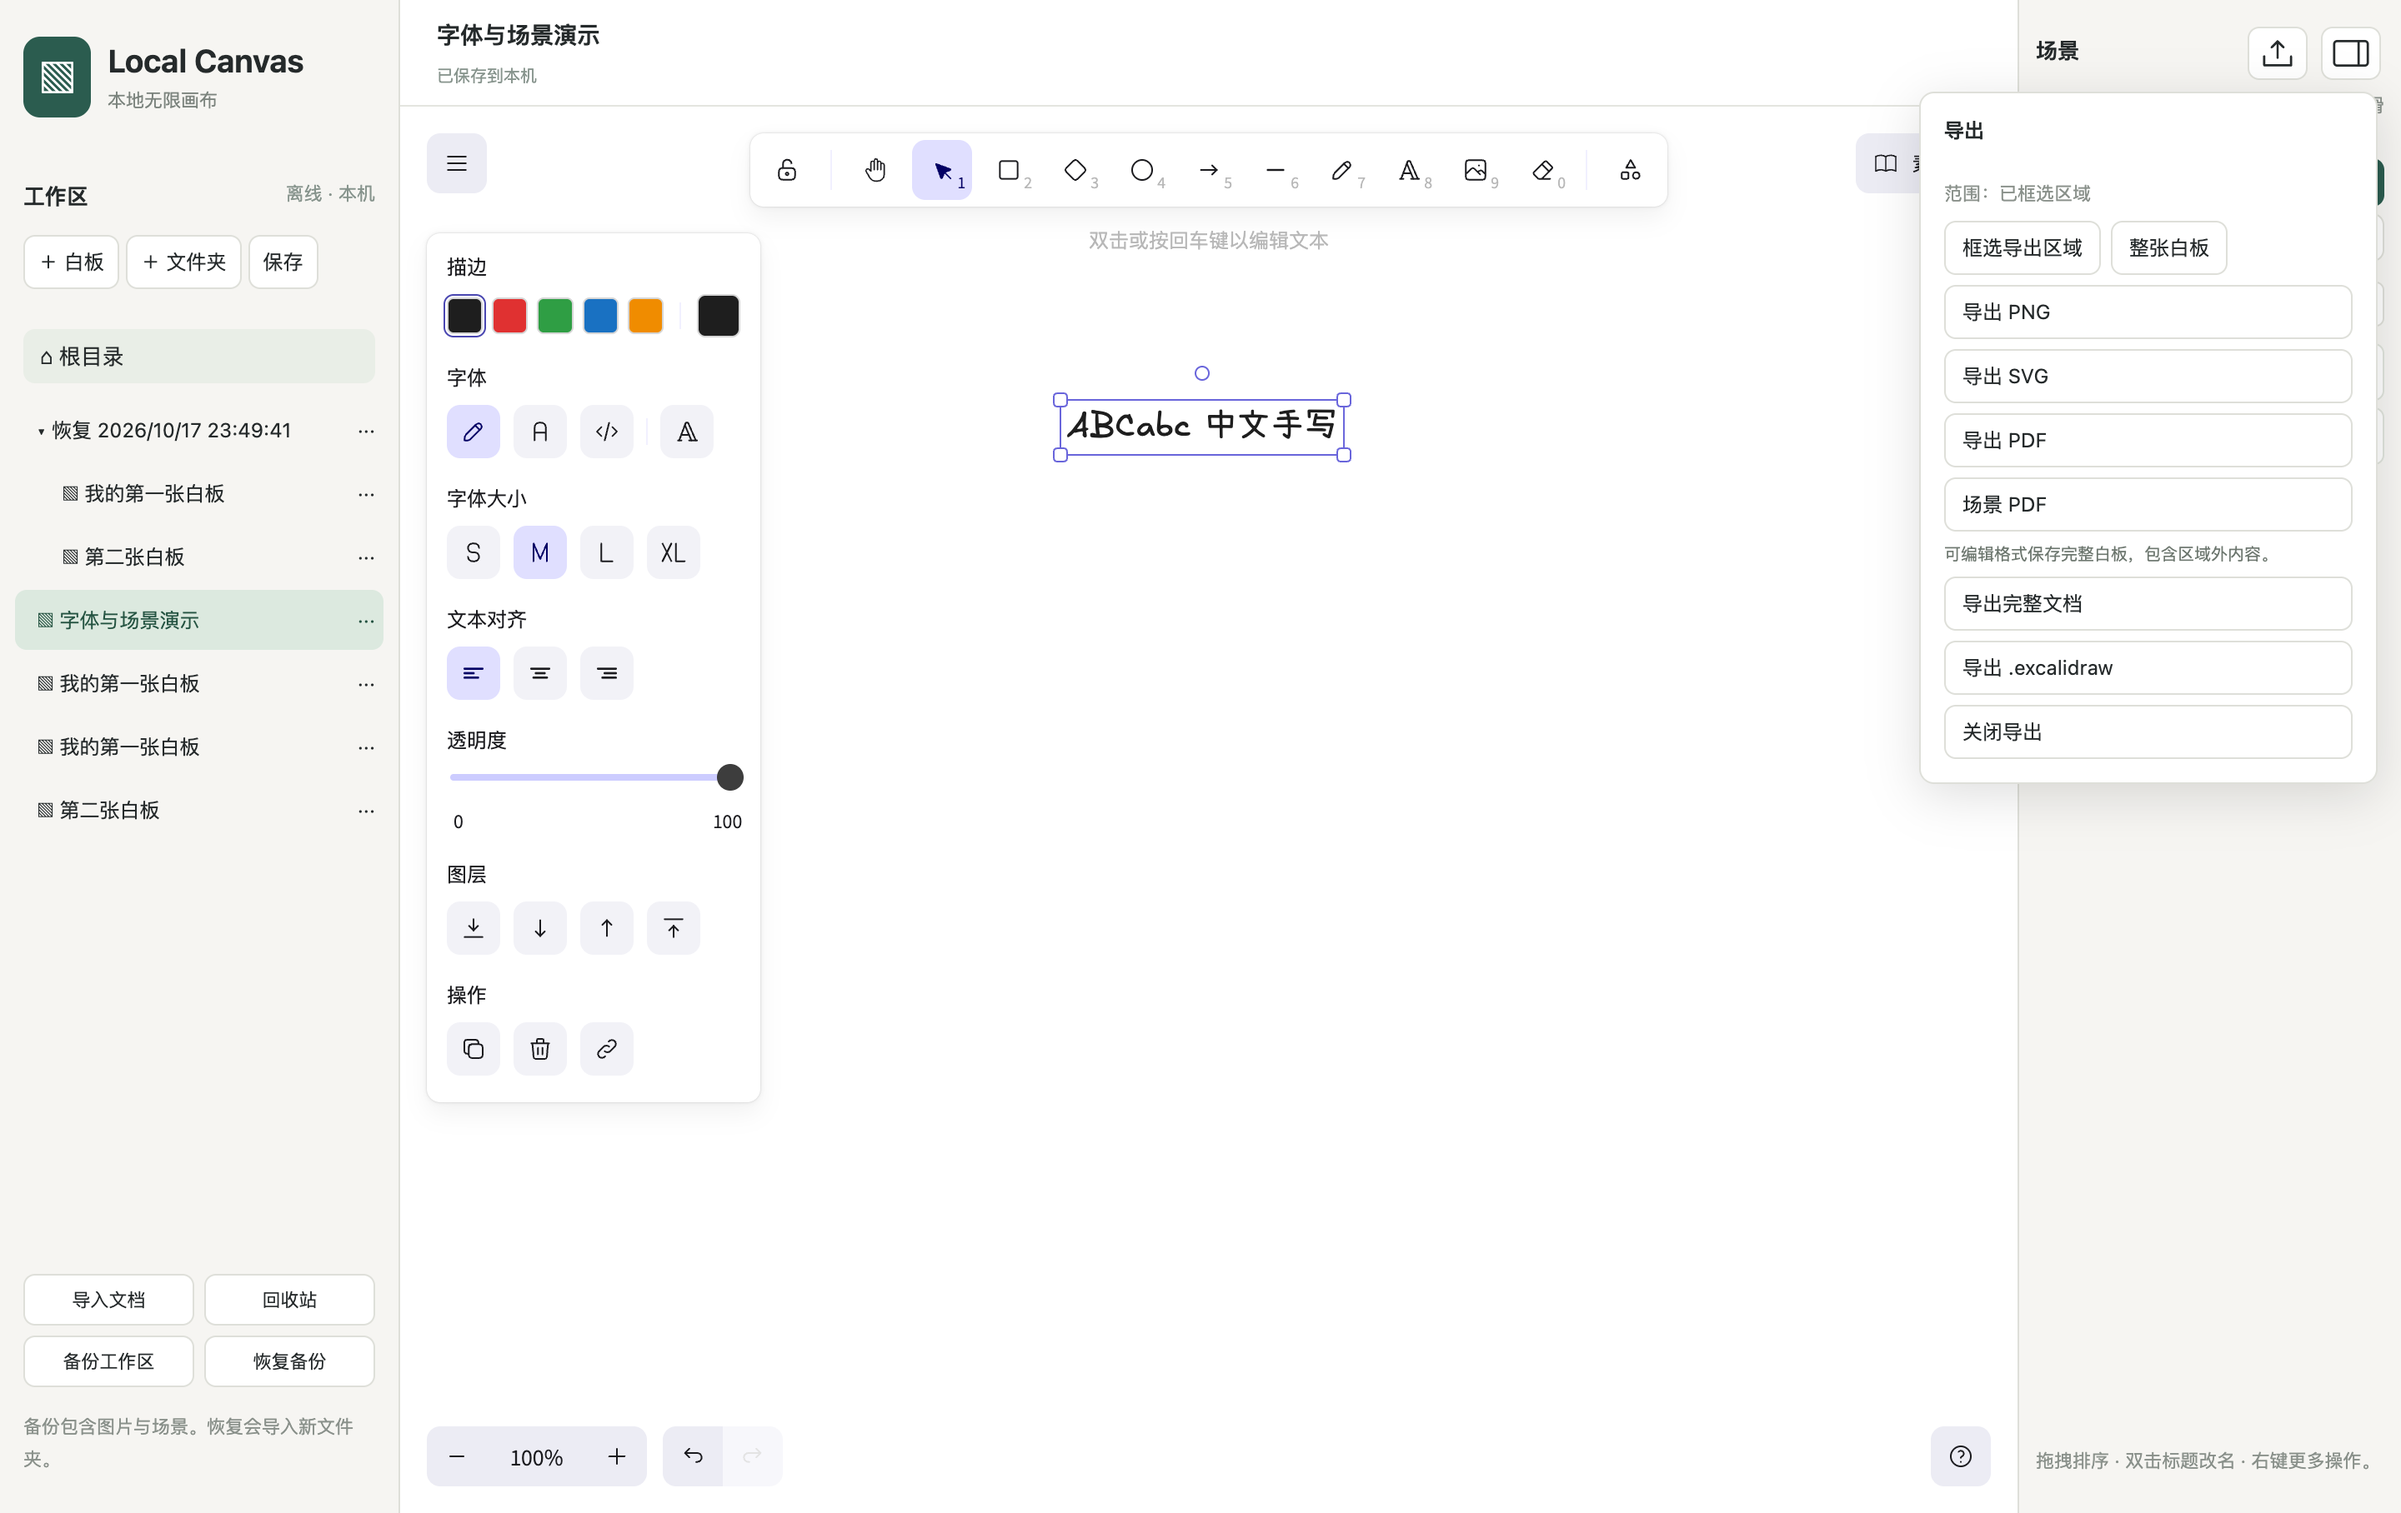
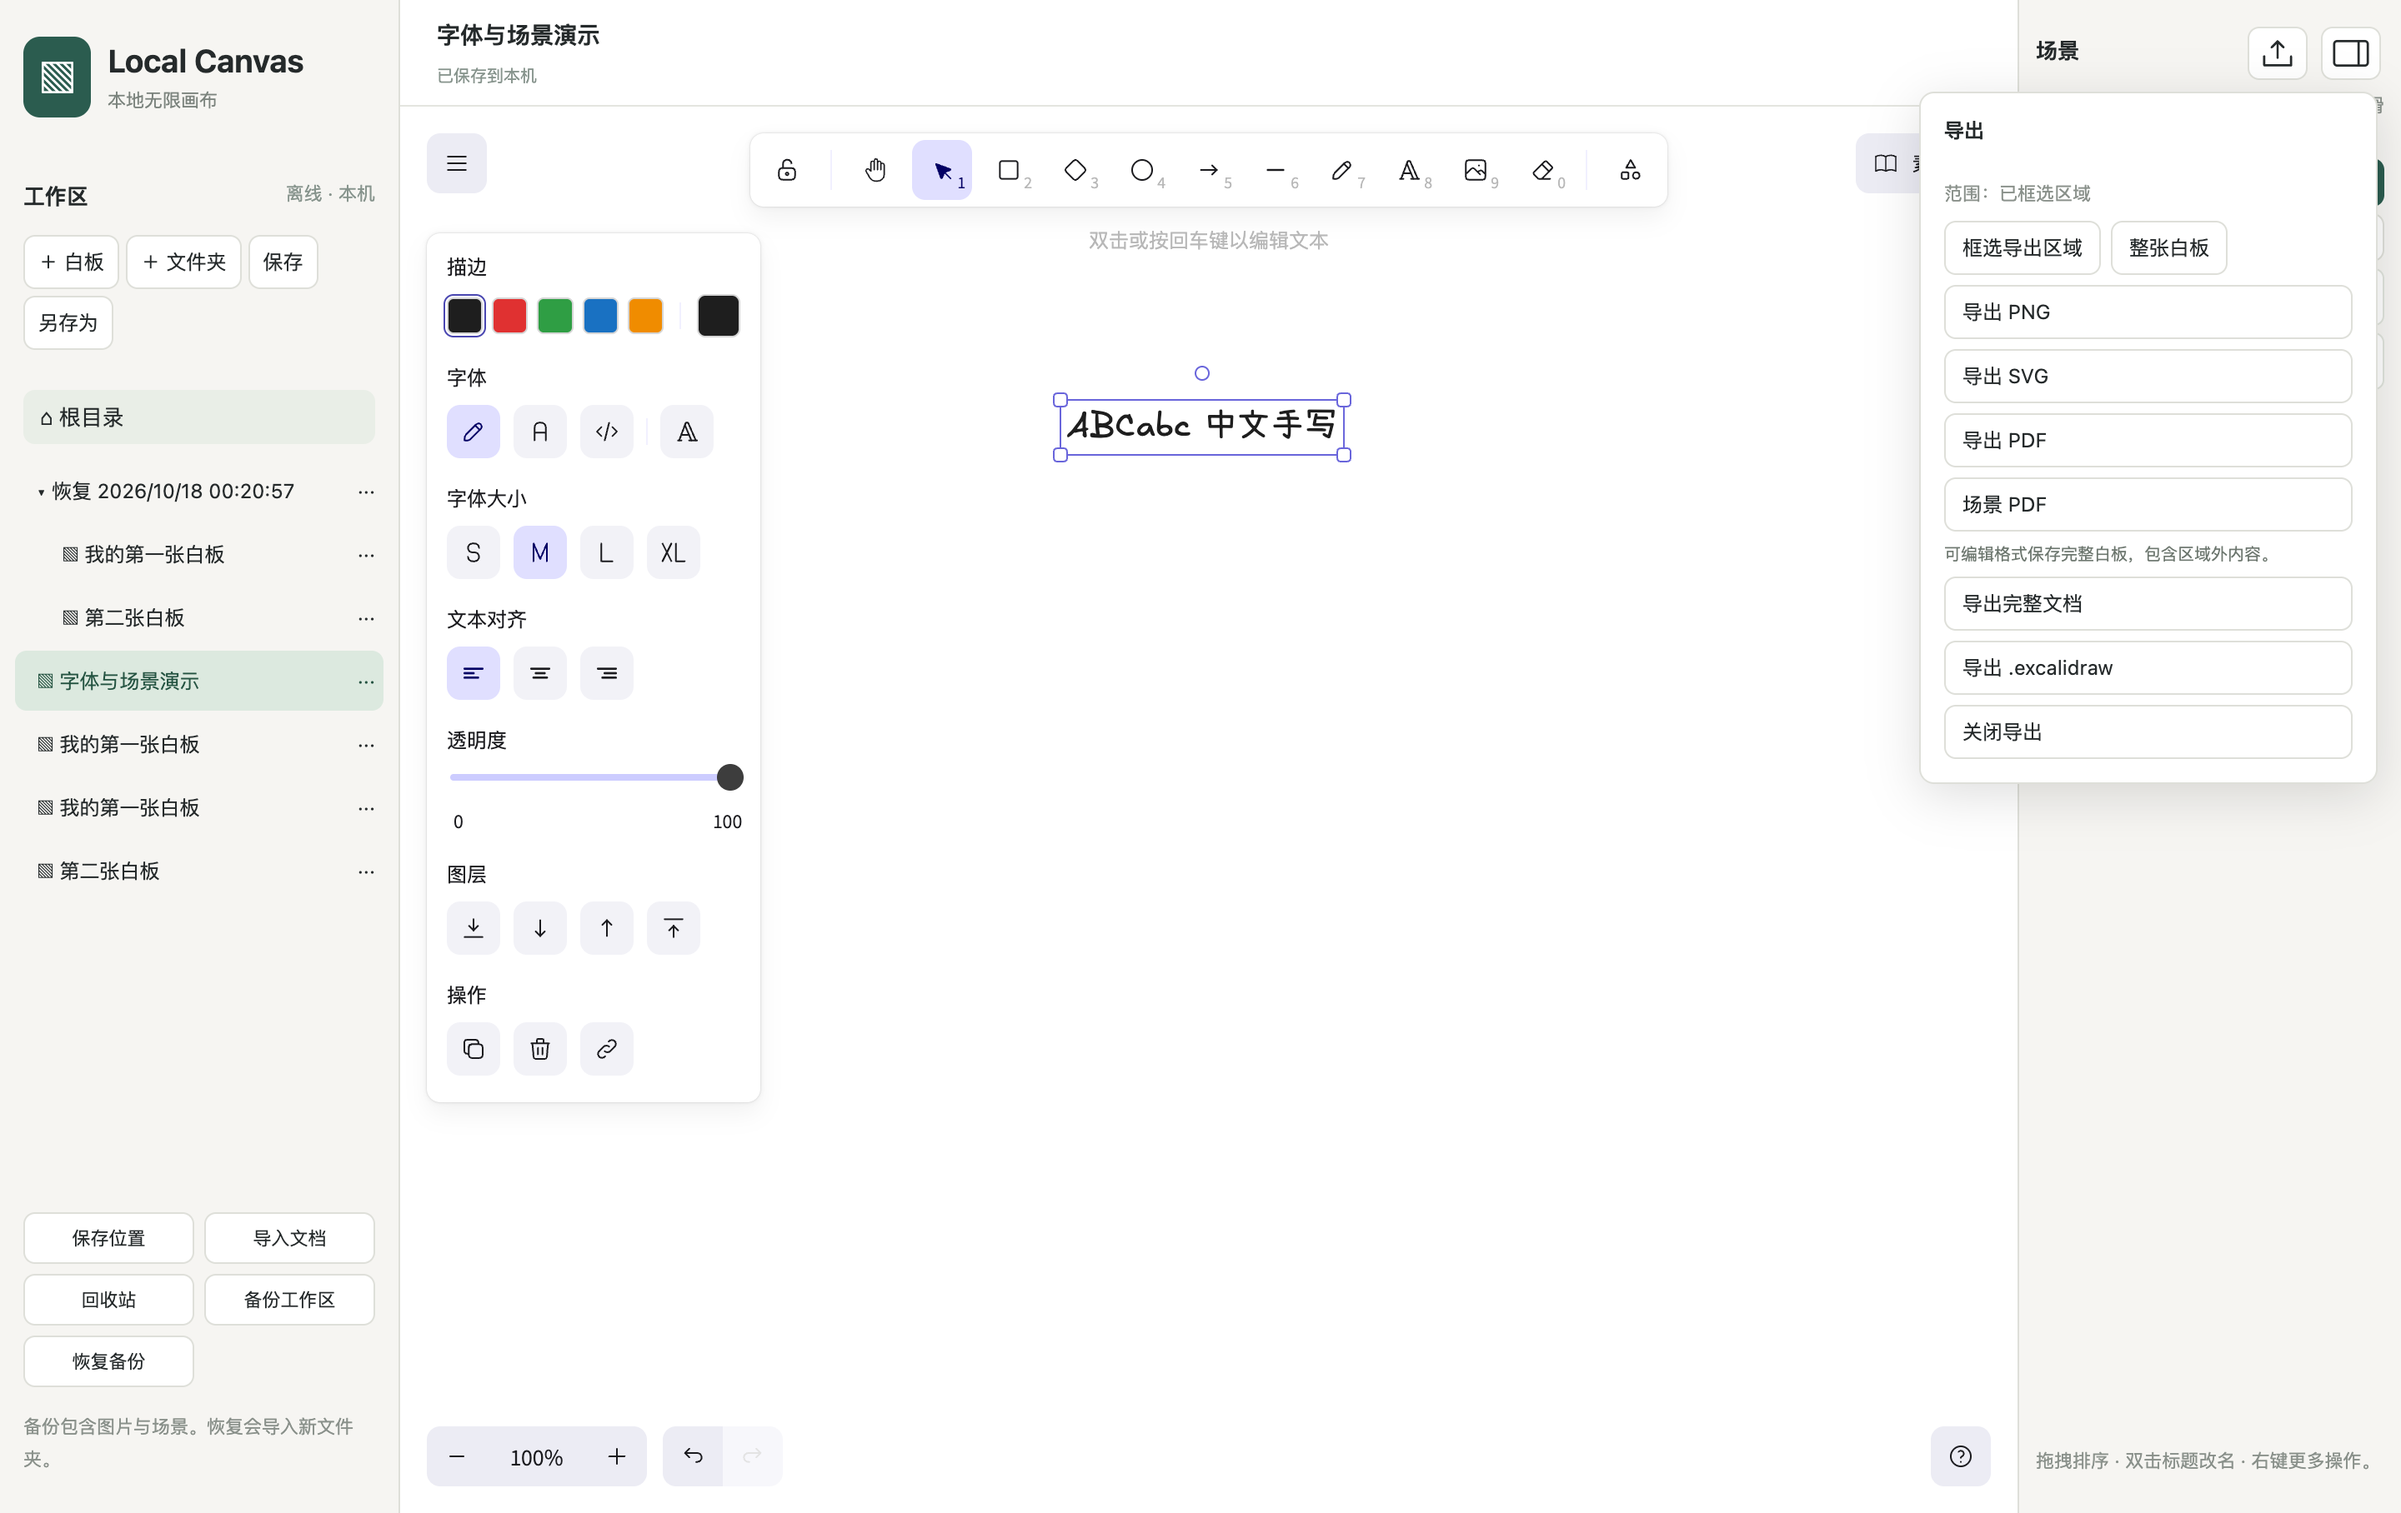
docs: showcase presentation layers, autoplay and save locations

diff --git a/desktop/VALIDATION.md b/desktop/VALIDATION.md
@@ -48,3 +48,11 @@ Presentation uses the official native freedraw engine and native styling panel i
 The unified export menu was tested with full document, Excalidraw, whole-board PDF, scene PDF and a manually selected region. Region PNG dimensions are checked against the selected bounds (540 × 160 px for a 270 × 80 region at 2×); region SVG and PDF files are generated. PNG and rendered PDF were visually checked for complete Chinese/English lettering and correct cropping. Editable formats intentionally preserve the entire document.
 
 Database revisions remain unchanged after interrupted scene animation, completed animation and wheel panning. Cmd/Ctrl+S and the workspace Save button commit the current view. A subsequent pan followed by a real shape color edit autosaves the changed color while retaining the previously manually saved viewport. Existing switching, restart, backup/restore and close-time content flush checks still pass. All 9 storage/navigation unit tests passed. Developer ID notarization and Windows runtime testing remain outstanding.
+
+## 2026-10-18 presentation and storage regression
+
+Expanded real Electron tests repeat clicks on the active whiteboard and press Save before entering fullscreen, reproducing the old API-null trigger. Navigation and presentation remain operational. The editing sidebar has no duration selector; presentation starts at the first scene and exposes exactly 500/1000/1500/2000 ms. Actual autoplay advances to the final scene and stops. The fullscreen Layers panel is exercised with real bidirectional pointer dragging and context-menu inline renaming. Native ink drawing, undo/redo and original-document isolation remain covered after these actions.
+
+Save As produces a full document containing scenes. The actual storage-location panel is checked against the isolated test profile. The test migrates the workspace and backups through the UI, closes the application while editing is locked, relaunches using the profile's storage-location pointer, and verifies the active document's scene/text data and new displayed database path. The original workspace is retained; nonempty destinations are rejected by the implementation. External-drive disconnect/reconnect and Windows runtime validation remain outstanding.
+
+Final result: the signed macOS packaged application passed the complete expanded desktop regression, including actual fullscreen-layer dragging, first-page entry, auto advance/stop, repeated-document-click recovery, native undo/redo, Save As and storage migration across restart. All 9 storage/navigation unit tests also passed. Updated real screenshots are stored under docs/local-canvas/.

diff --git a/README.md b/README.md
@@ -14,8 +14,9 @@
 | 保存与备份 | 内容变更自动保存，平移、缩放和场景导航不触发写入；手动保存（Cmd/Ctrl+S）同时记录当前视图；完整备份包含图片、场景及素材库 |
 | 同一白板内的场景 | 框选区域或保存当前视图，编辑标题、调整区域、拖动排序；点击后平滑移动并缩放，动画可打断 |
 | 紧凑场景侧栏 | 单行标题、拖动排序，右键进入改名/重框等操作；标题原位编辑，双栏图标切换显示 |
-| 导航时长 | 0.5、1.2、2.2、3.5 和 5 秒 |
-| 全屏场景演示 | 按场景顺序播放，底部上一页/下一页及键盘方向键操作，退出后恢复编辑视图 |
+| 导航时长 | 编辑侧栏固定 0.5 秒；演示中的手动翻页与自动播放可选 0.5、1、1.5、2 秒 |
+| 全屏场景演示 | 从排序第一项开始，底部手动翻页或自动演示；图层面板可拖拽排序、右键原位改名，退出恢复编辑视图 |
+| 保存位置与另存为 | 界面显示工作区路径，可完整迁移到其他文件夹并在重启后启用；另存为可单独选择完整白板文件位置 |
 | 演示临时画笔 | 直接使用 Excalidraw 原生自由画笔和样式面板，支持描边、背景、粗细及透明度；翻页或退出清除 |
 | 集中导出 | 右上角统一入口，可框选区域导出 PNG、SVG、PDF；支持整板、场景分页 PDF 及完整可编辑文档 |
 | 字体与素材库 | 沿用画布原生字体面板，支持手写字体及离线中文回退；本地 `.excalidrawlib` 导入、合并及随文档保存 |
@@ -30,6 +31,10 @@
 ![实机全屏演示：底部翻页及临时画笔，左侧为 Excalidraw 原生画笔样式面板](docs/local-canvas/presentation-current.png)
 
 临时画笔允许连续书写多笔，翻页及退出时清除；不写入文档、备份或 PDF。编辑和备份仍使用完整文档或 `.excalidraw` 格式。
+
+![演示图层面板：排序与右键场景操作，底部可选自动演示及移动时长](docs/local-canvas/layers-current.png)
+
+自动演示每页停留 3 秒，到最后一页停止；打开图层面板或启用临时画笔时暂停自动播放。
 
 ## 区域导出
 

diff --git a/desktop/README.md b/desktop/README.md
@@ -38,6 +38,10 @@ npm start
 
 ## Data and recovery
 
+Default macOS folder: `~/Library/Application Support/Local Canvas/`; default Windows folder: `%APPDATA%/Local Canvas/`. The Save Location panel shows the actual database and backup paths, including custom locations. Choose Change Workspace Location to migrate a consistent SQLite snapshot and backup folder to a new `Local Canvas` subfolder. Nonempty targets are rejected, original data is retained, and editing is blocked until restart. The profile's `storage-location.json` points to the migrated folder; a missing external drive causes a visible startup error rather than opening an empty database. Save As writes a portable full document to a chosen file and does not change the workspace database location.
+
+Presentation always begins with the first ordered scene. The Layers button opens the same draggable scene list and context menu during fullscreen. Editing navigation is fixed at 500 ms; presentation controls offer 500/1000/1500/2000 ms for arrows and automatic playback. Automatic playback waits three seconds after each transition and stops at the last scene; opening Layers or the pen pauses it.
+
 Database: Electron `app.getPath('userData')/workspace.sqlite`; daily startup snapshots: `userData/backups/`. Development and packaged builds both use the `Local Canvas` profile under the operating system's application-data directory. Set `LOCAL_CANVAS_DATA` to an absolute dedicated directory for tests or an explicit profile.
 
 Keep external backups on another disk. Daily snapshots on the same disk do not protect against disk failure. Importing a backup never overwrites the current workspace. Individual document payload limit is 100 MB, backup import file limit 500 MB; these are safety limits on a single operation, not document-count quotas.

diff --git a/desktop/NEXT-ITERATION.md b/desktop/NEXT-ITERATION.md
@@ -6,6 +6,8 @@
 
 ## 本轮状态
 
+2026-10-18 新增调整以 N20–N25 为准；演示时长替代首轮的长时长选项。
+
 | 编号 | 状态 |
 | --- | --- |
 | N01–N03 | 已实现：0.5 秒、移除尺寸描述、紧凑列表 |
@@ -23,6 +25,12 @@
 | N17 | 演示画笔直接复用官方 Excalidraw 自由画笔及原生样式面板，独立临时实例不接入持久化 |
 | N18 | 导出统一至右上角图标，框选区域支持 PNG、SVG、PDF；可编辑文档保持完整白板 |
 | N19 | 自动保存仅响应内容/样式及场景、素材库等文档操作；平移、缩放、场景动画及结束不写入。手动保存按钮位于左侧工作区的“＋白板、＋文件夹”后面，同 Cmd/Ctrl+S 一起保存当前画布位置和缩放 |
+| N20 | 演示底部“图层”打开场景面板，支持拖拽排序、右键原位改名 |
+| N21 | 增加保存位置说明、工作区迁移及完整白板另存为；保留旧位置，迁移后重启启用 |
+| N22 | 自动演示与手动翻页使用同一组 0.5/1/1.5/2 秒移动时长；停留默认 3 秒，到末页停止 |
+| N23 | 编辑模式场景跳转固定 0.5 秒，移除其他时长选项 |
+| N24 | 修复同文档重复点击导致编辑器引用被清空；加载重新挂载并检查准备状态 |
+| N25 | 演示首页为当前排序的第一个场景，每次进入均从首页开始 |
 
 新增反馈：场景侧栏切换使用 1:3 双栏图标；README 仅突出原版差异，修复细节和修改历史移至独立清单。
 

diff --git a/desktop/CHANGELOG.md b/desktop/CHANGELOG.md
@@ -1,5 +1,13 @@
 # 修改记录
 
+## 2026-10-18 · 演示与保存位置
+
+- N20：底部增加“图层”，演示内可打开场景列表、拖拽排序、右键改名；标题原位编辑，取消编辑不退出全屏。
+- N21：增加“保存位置”和“另存为”。显示数据库及自动备份路径；迁移使用 SQLite 一致性备份及备份文件复制，目标非空拒绝覆盖。原位置保留，迁移后锁定编辑直到重启，配置不可用时明确报错而非新建空白库。
+- N22–N23：编辑侧栏固定 0.5 秒。演示手动/自动移动时长可选 0.5、1、1.5、2 秒；自动模式停留 3 秒，到末页停止，打开图层或画笔时暂停。
+- N24：重复点击当前白板不再清空编辑器 API；实际加载文档使用独立挂载序号，缺失 API 时可重新挂载恢复，演示入口等待编辑器准备完成。
+- N25：每次进入演示从当前排序第一项开始，不沿用上次浏览场景。
+
 ## 2026-10-17 · 场景交互与统一导出
 
 - N13–N16：移除场景栏素材库按钮和总数，取消常驻改名/重框/上移/删除按钮，改由右键菜单进入；改名在标题原位完成，Enter/失焦提交，Esc 取消，支持双击标题。
